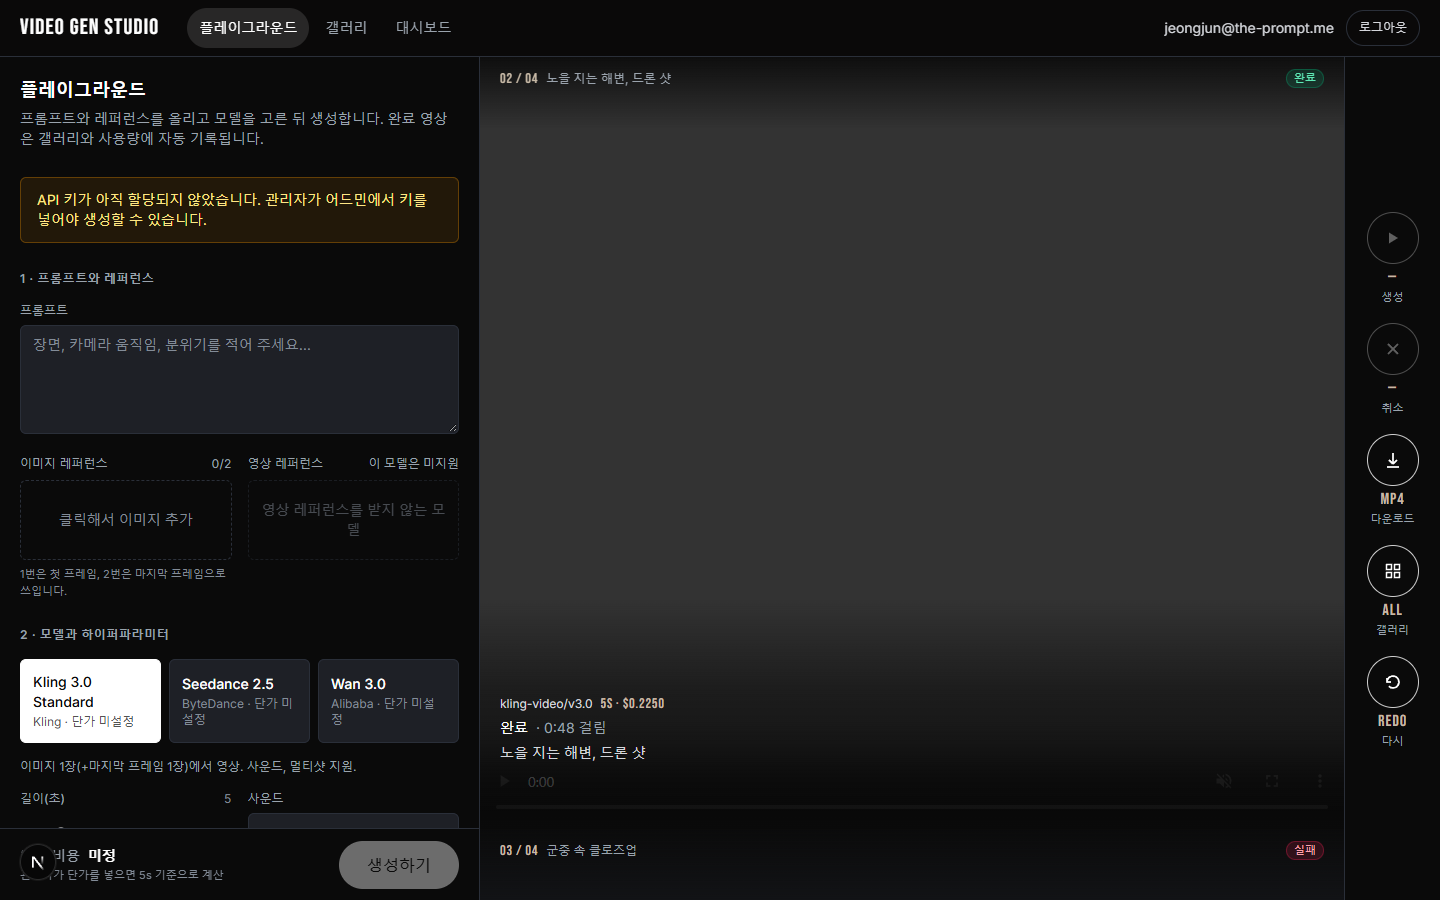
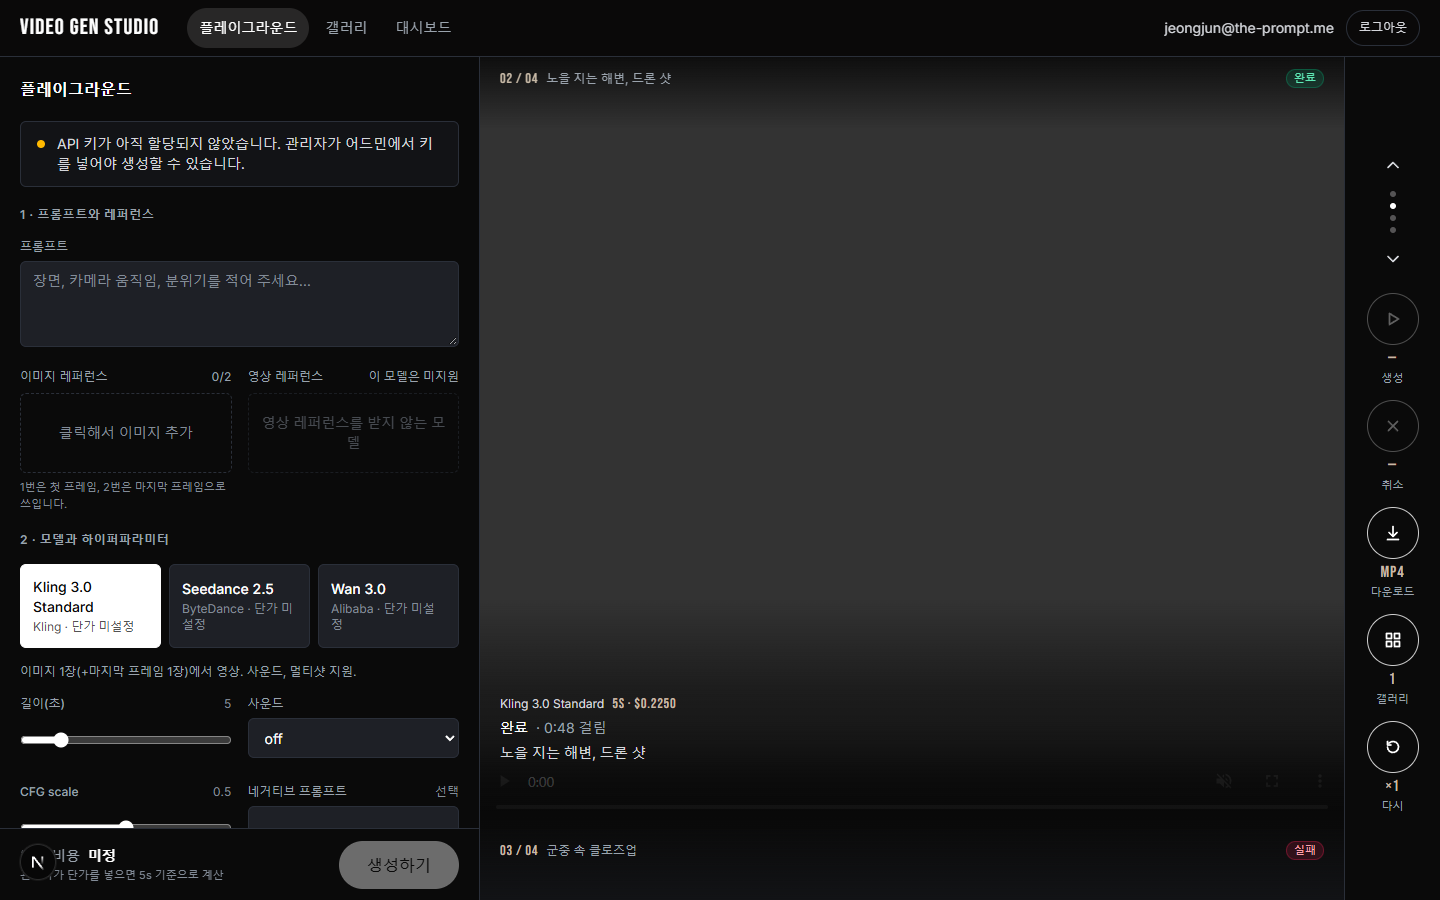
[수정] 마감 리뷰 지적 8건 반영 (플레이그라운드)
왜: 독립 마감 리뷰어가 방향 계약서 대비 "fix" 판정을 냈다
무엇:
- 빈 상태: "EMPTY" 대신 "첫 영상을 만들어 보세요"와 뷰포트별 방향 안내, 모바일은 설정으로 이동 버튼
- API 키 배너: 앰버 채움 → Ink 패널 + 앰버 점 하나 (상태색은 배지와 선에만)
- 레일 카운터: 갤러리=완료 건수, 다시=×n, 다운로드=결과 있을 때만 MP4, 나머지 "—"
- 서랍 밀도: 소개 문단 제거, 간격 축소, 파라미터가 900px 안에 보임
- 무대 작성자 줄에 카탈로그 표시명(Kling 3.0 Standard) 사용
- 취소 카운터는 취소 가능(queued)할 때만 경과 시간
- 아이콘 외곽선 1.75 스트로크로 통일
- 이전/다음 버튼과 점 열로 피드 위치 표시, 모바일 레일 390px에 맞춤
검증: npx tsc --noEmit 오류 없음, eslint 0 errors, Playwright 1440/390px 재캡처 가로 넘침 0·콘솔 오류 0, 모킹 피드 스냅 a1→a2 확인

Changed region(s): [[0.0, 0.0933, 0.4688, 0.9333], [0.9375, 0.4978, 1.0, 0.84], [0.1875, 0.56, 0.3125, 0.5911]]

diff --git a/src/components/Playground.tsx b/src/components/Playground.tsx
@@ -85,7 +85,7 @@ function ParamInput({ spec, value, onChange }: { spec: ParamSpec; value: unknown
 
 /* Rail glyph: circular white-outline control with a display counter and a label. */
 function Glyph({ label, counter, icon, active, disabled, onClick, href, download }: { label: string; counter: string; icon: React.ReactNode; active?: boolean; disabled?: boolean; onClick?: () => void; href?: string; download?: boolean }) {
-  const cls = `grid h-13 w-13 place-items-center rounded-full border-[1.5px] transition focus:outline-none focus-visible:ring-2 focus-visible:ring-accent focus-visible:ring-offset-2 focus-visible:ring-offset-background ${
+  const cls = `grid h-11 w-11 place-items-center rounded-full border-[1.5px] lg:h-13 lg:w-13 transition focus:outline-none focus-visible:ring-2 focus-visible:ring-accent focus-visible:ring-offset-2 focus-visible:ring-offset-background ${
     active ? "border-foreground bg-foreground text-background hover:bg-accent-hover" : "border-foreground/80 text-foreground hover:bg-white/15"
   } ${disabled ? "cursor-not-allowed opacity-35" : ""}`;
   const body = (
@@ -110,15 +110,22 @@ function Glyph({ label, counter, icon, active, disabled, onClick, href, download
   );
 }
 
+const svg = (d: string) => (
+  <svg viewBox="0 0 20 20" fill="none" stroke="currentColor" strokeWidth="1.75" strokeLinecap="round" strokeLinejoin="round" className="h-5 w-5">
+    <path d={d} />
+  </svg>
+);
 const I = {
-  play: <svg viewBox="0 0 20 20" fill="currentColor" className="h-5 w-5"><path d="M6 4.5v11l9-5.5z" /></svg>,
-  x: <svg viewBox="0 0 20 20" fill="none" stroke="currentColor" strokeWidth="1.8" className="h-5 w-5"><path d="M5 5l10 10M15 5L5 15" /></svg>,
-  down: <svg viewBox="0 0 20 20" fill="none" stroke="currentColor" strokeWidth="1.8" className="h-5 w-5"><path d="M10 3v11m0 0l-4-4m4 4l4-4M4 17h12" /></svg>,
-  grid: <svg viewBox="0 0 20 20" fill="none" stroke="currentColor" strokeWidth="1.6" className="h-5 w-5"><path d="M3.5 3.5h5v5h-5zM11.5 3.5h5v5h-5zM3.5 11.5h5v5h-5zM11.5 11.5h5v5h-5z" /></svg>,
-  redo: <svg viewBox="0 0 20 20" fill="none" stroke="currentColor" strokeWidth="1.8" className="h-5 w-5"><path d="M4 10a6 6 0 1 1 1.8 4.3M4 6v4h4" /></svg>,
+  play: svg("M6.5 4.5v11l9-5.5z"),
+  x: svg("M5.5 5.5l9 9M14.5 5.5l-9 9"),
+  down: svg("M10 3.5v10m0 0l-4-4m4 4l4-4M4.5 16.5h11"),
+  grid: svg("M3.5 3.5h5v5h-5zM11.5 3.5h5v5h-5zM3.5 11.5h5v5h-5zM11.5 11.5h5v5h-5z"),
+  redo: svg("M4.5 10a5.5 5.5 0 1 0 1.6-3.9M4.5 4.5v3.5H8"),
+  up: svg("M5 12.5l5-5 5 5"),
+  downChevron: svg("M5 7.5l5 5 5-5"),
 };
 
-function FeedItem({ g, index, total, active, now }: { g: PublicGeneration; index: number; total: number; active: boolean; now: number }) {
+function FeedItem({ g, index, total, active, now, modelName }: { g: PublicGeneration; index: number; total: number; active: boolean; now: number; modelName: string }) {
   const live = LIVE.has(g.status);
   const started = new Date(g.createdAt).getTime();
   const took = g.completedAt ? new Date(g.completedAt).getTime() - started : now - started;
@@ -141,12 +148,12 @@ function FeedItem({ g, index, total, active, now }: { g: PublicGeneration; index
           {live ? (
             <>
               <span aria-hidden className="h-14 w-14 animate-spin rounded-full border-2 border-foreground border-t-transparent [animation-duration:1.4s]" />
-              <span className="font-display text-5xl leading-none text-foreground" aria-live="polite">{fmtElapsed(took)}</span>
+              <span className="font-display text-7xl leading-none text-foreground sm:text-8xl" aria-live="polite">{fmtElapsed(took)}</span>
               <span className="text-sm text-muted">{label} · 경과 시간</span>
             </>
           ) : (
             <>
-              <span className="font-display text-5xl leading-none text-foreground-2">{label}</span>
+              <span className="font-display text-7xl leading-none text-foreground-2 sm:text-8xl">{label}</span>
               <p className="max-w-md text-sm text-muted">{g.error ?? (g.status === "canceled" ? "취소된 생성입니다." : "결과 영상이 없습니다.")}</p>
             </>
           )}
@@ -156,7 +163,7 @@ function FeedItem({ g, index, total, active, now }: { g: PublicGeneration; index
       {/* Caption scrim */}
       <div className={`scrim pointer-events-none absolute inset-x-0 bottom-0 z-10 px-5 pt-24 ${g.status === "completed" && active ? "pb-16" : "pb-5"}`}>
         <div className="text-xs text-muted">
-          <span className="text-foreground-2">{shortModel(g.modelId)}</span>
+          <span className="text-foreground-2">{modelName}</span>
           <span className="font-display ml-2 text-sm text-sand">{g.durationS}S · {usd(g.costUsd)}</span>
         </div>
         <div className="mt-1 flex items-center gap-2 text-sm text-foreground">
@@ -340,8 +347,16 @@ export function Playground({ models, hasApiKey, largeUploads }: { models: ModelW
   if (!model) return <div className="p-8 text-center text-sm text-subtle">사용할 수 있는 모델이 없습니다. 관리자에게 문의하세요.</div>;
 
   const canGenerate = hasApiKey && !submitting && !uploading;
-  const activeLive = Boolean(active && LIVE.has(active.status));
+  const canCancel = Boolean(active && active.status === "queued");
   const activeStarted = active ? new Date(active.createdAt).getTime() : 0;
+  const activeIndex = active ? items.findIndex((i) => i.id === active.id) : -1;
+  const completedCount = items.filter((i) => i.status === "completed").length;
+  const reuseCount = active ? items.filter((i) => i.prompt === active.prompt && i.modelId === active.modelId).length : 0;
+  function goTo(i: number) {
+    const feed = feedRef.current;
+    if (!feed || i < 0 || i >= items.length) return;
+    feed.scrollTo({ top: i * (feed.clientHeight - 72), behavior: prefersReducedMotion() ? "auto" : "smooth" });
+  }
 
   return (
     <div className="flex flex-1 flex-col lg:h-[calc(100dvh_-_3.5rem)] lg:flex-none lg:flex-row lg:overflow-hidden">
@@ -349,43 +364,67 @@ export function Playground({ models, hasApiKey, largeUploads }: { models: ModelW
       <section aria-label="결과 무대" className="order-1 flex h-[72dvh] min-h-[480px] min-w-0 shrink-0 flex-col bg-background lg:order-2 lg:h-full lg:flex-1 lg:shrink lg:flex-row">
         <div ref={feedRef} className="feed relative h-full min-h-0 flex-1 overflow-y-auto" tabIndex={-1}>
           {items.length === 0 ? (
-            <div className="flex h-full w-full flex-col items-center justify-center gap-3 px-6 text-center">
-              <span className="font-display text-6xl leading-none text-foreground-2">{loaded ? "EMPTY" : "…"}</span>
-              <p className="max-w-sm text-sm text-muted">
-                {loaded ? "아직 만든 영상이 없습니다. 왼쪽에서 프롬프트를 적고 모델을 고른 뒤 생성하면 여기에 올라옵니다." : "최근 생성을 불러오는 중"}
-              </p>
+            <div className="flex h-full w-full flex-col items-center justify-center gap-4 px-6 text-center">
+              {loaded ? (
+                <>
+                  <p className="text-xl font-semibold text-foreground sm:text-2xl">첫 영상을 만들어 보세요</p>
+                  <p className="max-w-sm text-sm text-muted">
+                    <span className="hidden lg:inline">왼쪽 서랍</span>
+                    <span className="lg:hidden">아래</span>
+                    에서 프롬프트를 적고 모델을 고른 뒤 생성하면 결과가 이 무대에 올라옵니다.
+                  </p>
+                  <Button variant="outline" size="sm" className="lg:hidden" onClick={() => document.querySelector('aside[aria-label="생성 설정"]')?.scrollIntoView({ block: "start", behavior: prefersReducedMotion() ? "auto" : "smooth" })}>
+                    생성 설정으로 이동
+                  </Button>
+                </>
+              ) : (
+                <p className="text-sm text-muted">최근 생성을 불러오는 중</p>
+              )}
             </div>
           ) : (
-            items.map((g, i) => <FeedItem key={g.id} g={g} index={i} total={items.length} active={g.id === active?.id} now={now} />)
+            items.map((g, i) => <FeedItem key={g.id} g={g} index={i} total={items.length} active={g.id === active?.id} now={now} modelName={models.find((m) => m.id === g.modelId)?.name ?? shortModel(g.modelId)} />)
           )}
         </div>
-        <div aria-label="결과 동작" className="flex shrink-0 items-center justify-center gap-6 border-t border-border px-3 py-3 lg:w-24 lg:flex-col lg:gap-5 lg:border-t-0 lg:border-l lg:py-0">
+        <div aria-label="결과 동작" className="flex shrink-0 items-center justify-center gap-3 border-t border-border px-2 py-3 sm:gap-5 lg:w-24 lg:flex-col lg:gap-4 lg:border-t-0 lg:border-l lg:py-4">
+          {items.length > 1 && (
+            <div className="flex flex-col items-center gap-0.5 lg:gap-1" aria-label="결과 위치">
+              <button type="button" aria-label="이전 결과" disabled={activeIndex <= 0} onClick={() => goTo(activeIndex - 1)} className="grid h-9 w-9 place-items-center rounded-full text-foreground-2 transition hover:bg-white/15 hover:text-foreground disabled:opacity-30 disabled:hover:bg-transparent">
+                {I.up}
+              </button>
+              <ol className="hidden flex-col items-center gap-1.5 py-1 lg:flex" aria-hidden>
+                {items.map((g, i) => (
+                  <li key={g.id} className={`h-1.5 w-1.5 rounded-full ${i === activeIndex ? "bg-foreground" : "bg-foreground/30"}`} />
+                ))}
+              </ol>
+              <button type="button" aria-label="다음 결과" disabled={activeIndex >= items.length - 1} onClick={() => goTo(activeIndex + 1)} className="grid h-9 w-9 place-items-center rounded-full text-foreground-2 transition hover:bg-white/15 hover:text-foreground disabled:opacity-30 disabled:hover:bg-transparent">
+                {I.downChevron}
+              </button>
+            </div>
+          )}
           <Glyph label="생성" counter={model.pricePerSecUsd > 0 ? usd(estimate) : "—"} icon={I.play} active={canGenerate} disabled={!canGenerate} onClick={generate} />
-          <Glyph label="취소" counter={activeLive ? fmtElapsed(now - activeStarted) : "—"} icon={I.x} disabled={!active || active.status !== "queued"} onClick={() => active && cancel(active)} />
-          <Glyph label="다운로드" counter="MP4" icon={I.down} disabled={!active || active.status !== "completed" || !active.resultUrl} href={active?.resultUrl ?? undefined} download />
-          <Glyph label="갤러리" counter="ALL" icon={I.grid} href="/gallery" />
-          <Glyph label="다시" counter="REDO" icon={I.redo} disabled={!active} onClick={() => active && reuse(active)} />
+          <Glyph label="취소" counter={canCancel ? fmtElapsed(now - activeStarted) : "—"} icon={I.x} disabled={!canCancel} onClick={() => active && cancel(active)} />
+          <Glyph label="다운로드" counter={active?.status === "completed" && active.resultUrl ? "MP4" : "—"} icon={I.down} disabled={!active || active.status !== "completed" || !active.resultUrl} href={active?.resultUrl ?? undefined} download />
+          <Glyph label="갤러리" counter={completedCount > 0 ? String(completedCount) : "—"} icon={I.grid} href="/gallery" />
+          <Glyph label="다시" counter={active ? `×${reuseCount}` : "—"} icon={I.redo} disabled={!active} onClick={() => active && reuse(active)} />
         </div>
       </section>
 
       {/* DRAWER: the form that puts the next item on the stage. */}
       <aside aria-label="생성 설정" className="order-2 flex w-full flex-col border-t border-border bg-background lg:order-1 lg:h-full lg:w-[480px] lg:shrink-0 lg:border-r lg:border-t-0">
-        <div className="min-h-0 flex-1 space-y-7 overflow-y-auto p-5">
-          <div>
-            <h1 className="text-lg font-semibold">플레이그라운드</h1>
-            <p className="mt-1 text-sm text-muted">프롬프트와 레퍼런스를 올리고 모델을 고른 뒤 생성합니다. 완료 영상은 갤러리와 사용량에 자동 기록됩니다.</p>
-          </div>
+        <div className="min-h-0 flex-1 space-y-5 overflow-y-auto p-5">
+          <h1 className="text-base font-semibold">플레이그라운드</h1>
 
           {!hasApiKey && (
-            <div role="status" className="rounded-md border border-amber-500/30 bg-amber-500/10 px-4 py-3 text-sm text-amber-200">
-              API 키가 아직 할당되지 않았습니다. 관리자가 어드민에서 키를 넣어야 생성할 수 있습니다.
+            <div role="status" className="flex items-start gap-3 rounded-md border border-border bg-surface px-4 py-3 text-sm text-foreground-2">
+              <span aria-hidden className="mt-1.5 h-2 w-2 shrink-0 rounded-full bg-amber-400" />
+              <span>API 키가 아직 할당되지 않았습니다. 관리자가 어드민에서 키를 넣어야 생성할 수 있습니다.</span>
             </div>
           )}
 
           <section className="space-y-4">
             <h2 className="text-xs font-semibold tracking-wider text-muted">1 · 프롬프트와 레퍼런스</h2>
             <Field label="프롬프트" hint={prompt.length > 0 ? `${prompt.length}자` : undefined}>
-              <Textarea id="prompt" rows={4} placeholder="장면, 카메라 움직임, 분위기를 적어 주세요…" value={prompt} onChange={(e) => setPrompt(e.target.value)} />
+              <Textarea id="prompt" rows={3} placeholder="장면, 카메라 움직임, 분위기를 적어 주세요…" value={prompt} onChange={(e) => setPrompt(e.target.value)} />
             </Field>
             <div className="grid gap-4 sm:grid-cols-2">
               <div>
